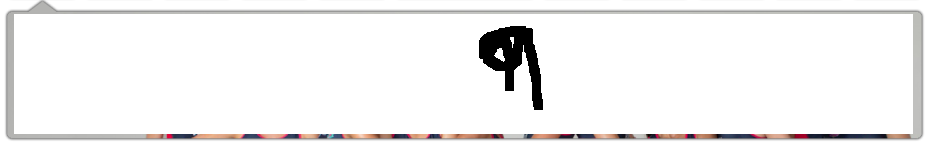
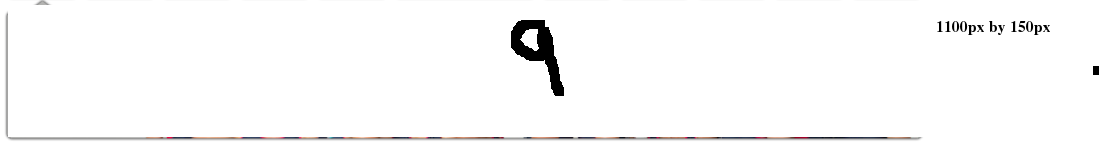
finished prelim button

Changed region(s): [[0.0, 0.0, 1.0, 0.9859], [0.4657, 0.1408, 0.5899, 0.7887]]

diff --git a/main.js b/main.js
@@ -6,31 +6,13 @@ d3.json("teams.json", function(data){
       width and height variables are used for calculating the dimensions of the app
       init allows me to figure out if a new banner is the same as the last banner
      */
-    var width = 1400, height=1000, initBanner=0, selectedTeam="null";
+    var width = 1400, height=1000, initBanner=0,finalClick=1, selectedTeam="null";
     
     // create the main workspace
     var bodySelect = d3.select("body");
     var svg = bodySelect.append("svg")
 	.attr("width", 1500)
 	.attr("height", 1000);
-    
-    
-    //create the three subdivisional workspaces
-  
-
-    var graphWindow = svg.append("rect")
-	.attr("width", width-50)
-	.attr("height", 400)
-	.attr("x", 100)
-	.attr("y", 210)
-	.attr("fill", "steelblue");
-
-    var analysisWindow = svg.append("rect")
-	.attr("width", width-100)
-	.attr("height", 200)
-	.attr("x", 125)
-	.attr("y", 620)
-	.attr("fill", "lightsteelblue");
 
     //create the two rounded rectangles for the Australia and New Zealand teams
     //official hexidecimal australian colours: #FCD116 and #008751
@@ -57,14 +39,14 @@ d3.json("teams.json", function(data){
 	.attr("stroke", "lightgray")
 	.attr("stroke-width", 2);
 
-    writeText(350,35,"AUSTRALIA", "#008751");
-    writeText(1050, 35, "NEW ZEALAND", "#E6E6E6");
+    writeText(350,35,"AUSTRALIA", "#008751","30px","visible");
+    writeText(1050, 35, "NEW ZEALAND", "#E6E6E6","30px","visible");
 
     var banner = svg.append("svg")
-	.attr("x", 75)
-	.attr("y", 120)
-	.attr("height", 200)
-	.attr("width", 1200);
+	.attr("x", 100)
+	.attr("y", 150)
+	.attr("height", 250)
+	.attr("width", 1400);
     
     //Append the images to the application
     var images = svg.selectAll("image")
@@ -89,61 +71,117 @@ d3.json("teams.json", function(data){
 	    if(initBanner<1){
 		var bannerWindow = banner.append("image")
 		    .attr("height", 200)
-		    .attr("width", 1200)
+		    .attr("width", 1350)
 		    .attr("xlink:href", d.banner);
 		initBanner=1;
 	    } else if(initBanner>0){
 		banner.selectAll("*").remove();
 		var BannerWindow = banner.append("image")
 		    .attr("height", 200)
-		    .attr("width", 1200)
+		    .attr("width", 1350)
 		    .attr("xlink:href", d.banner);
 	    }
 	    selectedTeam=d.id;
 	});
+    
+    var finals = svg.append("svg");
+    //initial draw
+    finalsButton();
 
-    var viewFinalsText = ["View Finals", "View preliminaries"];
-    var viewFinals = svg.selectAll("g")
-	.data(viewFinalsText).enter().append("g").attr("transform", function(d,i){return "translate(100,100";});
-
+    
     //START WORK FROM HERE NEXT
-    viewFinals.append("rect").attr("x",625).attr("y", 105).attr("rx",10)
-	.attr("ry", 10)
-	.attr("width", 300)
-	.attr("height", 50)
-	.attr("fill", "#5c7d5c")
-	.on("click", function(){
-	    d3.select(this.nextSibling)
-		.attr("opacity", "1")})
-	.on("click",function(){
-	    d3.select(this.nextSibling)
-		.attr("opacity", "0")});
+    function finalsButton(){
+	
+	//check initial state of button
+	if(finalClick==0){
+	    finalClick=1;
+	} else {
+	    finalClick=0;
+	}
+	
+	//clear finalButton
+	finals.selectAll("*").remove();
+
+	//draw viewFinal button and text
+	if(finalClick==0){
+	    var viewFinals = finals.append("rect")
+		.attr("x",625)
+		.attr("y", 105)
+		.attr("rx", 10)
+		.attr("ry", 10)
+		.attr("width", 300)
+		.attr("height", 50)
+		.attr("fill", "#BDC7C5")
+	    	.on("click",function(){
+		    finalsButton();
+		});
+	    var viewPrelimText= finals.append("text")
+		.attr("x", 705)
+		.attr("y", 135)
+		.text("VIEW FINALS")
+		.attr("font-size", "20px")
+		.attr("font-family", "cursive") 
+		.attr("fill", "black")
+	    	.on("click",function(){
+		    finalsButton();
+		});
+	}
+	
+	//draw viewPrelim button and text
+	if(finalClick==1){
+	    var viewPrelim = finals.append("rect")
+		.attr("x",625)
+		.attr("y", 105)
+		.attr("rx", 10)
+		.attr("ry", 10)
+		.attr("width", 300)
+		.attr("height", 50)
+		.attr("fill", "#BDC7C5")
+	    	.on("click",function(){
+		    finalsButton();
+		});
+	    var viewPrelimText= finals.append("text")
+		.attr("x", 705)
+		.attr("y", 135)
+		.text("PRELIMINARIES")
+		.attr("font-size", "20px")
+		.attr("font-family", "cursive") 
+		.attr("fill", "black")
+	    	.on("click",function(){
+		    finalsButton();
+		});
+	}
+	
+	    
+    }
+
+
+
+
+
+
+
+
     
-    viewFinals.append("text")
-	.attr("x", 700)
-	.attr("y", 130)
-	.attr("opacity", "1")
-	.text(function(d) {return d;});
     
-  /*  
-    var viewFinals = svg.append("rect")
-	.attr("x", 625)
-	.attr("y", 105)
+    //create the three subdivisional workspaces
+  
+    //inner window color #8EA09D outer #BDC7C5
+    var graphWindow = svg.append("rect")
+	.attr("width", width-100)
+	.attr("height", 400)
+	.attr("x", 125)
+	.attr("y", 350)
 	.attr("rx", 10)
 	.attr("ry", 10)
-	.attr("width", 300)
-	.attr("height", 50)
-	.attr("fill", "#5C7D5C")
-	.on("mouseover", function(){
-	    d3.select(this.nextSibling)
-		.attr("opacity", "1")
-		.attr("})
-    
-	.on("mouseout", function(){
-	    d3.select(this.nextSibling)
-		.attr("opacity","0")});
+	.attr("fill", "#BDC7C5");
 
-*/
+    var analysisWindow = svg.append("rect")
+	.attr("width", width-150)
+	.attr("height", 200)
+	.attr("x", 150)
+	.attr("y", 760)
+	.attr("fill", "#BDC7C5");
 
 
 
@@ -156,13 +194,14 @@ d3.json("teams.json", function(data){
       text  - the text to parse
       color - the colour name or hexidecimal color to parse
     */
-    function writeText(x,y,text,color){   
+	    function writeText(x,y,text,color,size,visibility){   
 	this["var"+text]= svg.append("text")
 	    .attr("x", x)
 	    .attr("y", y)
 	    .text(text)
-	    .attr("font-size", "30px")
+	    .attr("font-size", size)
 	    .attr("font-family", "cursive")
+	    .style("visibility", visibility)
 	//.style("font-weight", "bold")
 	    .attr("fill", color);
     }

diff --git a/index.html b/index.html
@@ -1,24 +1,13 @@
 <!DOCTYPE html>
 <html>
-  
 <head>
 <meta content="text/html;charset=utf-8" http-equiv="Content-Type">
 <meta content="utf-8" http-equiv="encoding">
  <script type="text/javascript" src="http://mbostock.github.com/d3/d3.js"></script>
-<!-- importing the d3 library 
-<script src="https://cdnjs.cloudflare.com/ajax/libs/d3/3.5.5/d3.min.js" charset="utf-8"></script> -->
-<!-- importing topographic data -->
-<!--<script src="http://d3js.org/topojson.v1.min.js"></script>-->
-
-
 </head>
-
 <body>
+  <script src="prepData.js"></script>
   <script src="main.js"></script>
-
-
-    
-    
   </script>
 </body>
 
